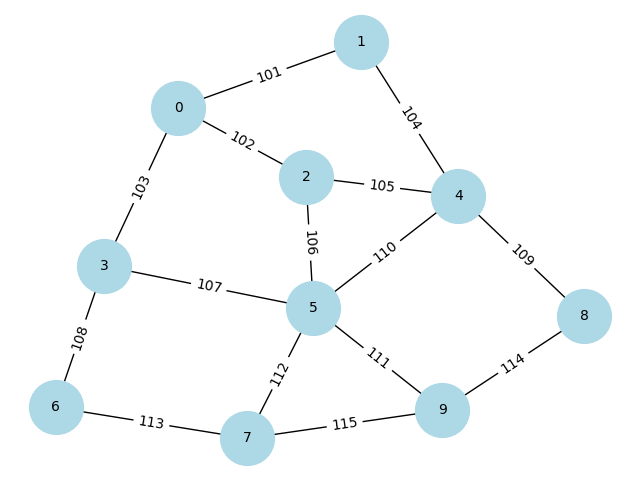
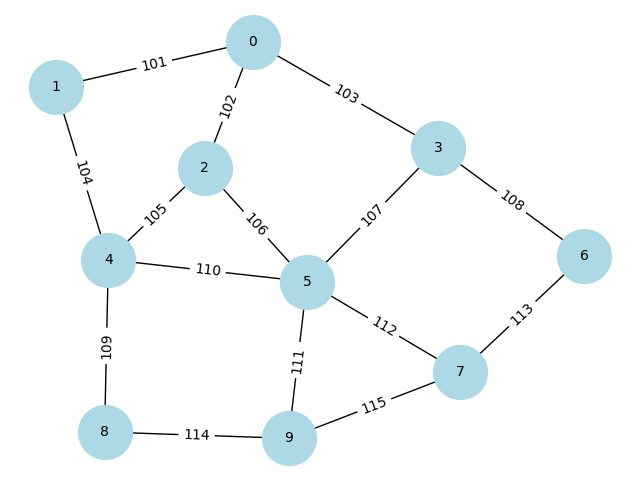
update

diff --git a/lab_1/Graph/__init__.py b/lab_1/Graph/__init__.py
@@ -1,3 +1,5 @@
+import matplotlib.pyplot as plt
+import networkx as nx
 from typing import List
 from Edge import Edge
 from Node import Node
@@ -5,13 +7,22 @@ from Queue import Queue
 from Stack import Stack
 
 class Graph:
-
-    def __init__(self, edgeLst: List[Edge]):
+    def __init__(self, edgeLst: List[Edge], draw_flag: int = 0):
         self.edgeLst = edgeLst  # Список рёбер графа
         self.closed = []  # Посещённые узлы
         self.goal = None  # Целевой узел
         self.isSolutionNotFound = 1  # Флаг, указывающий на отсутствие решения
         self.childCounter = 1  # Счётчик для поиска потомков
+        self.draw_flag = draw_flag  # Флаг для отрисовки графа
+
+        self.G = nx.Graph()
+
+        # Добавляем рёбра в граф и помечаем их
+        for edge in self.edgeLst:
+            self.G.add_edge(edge.startNode.number, edge.endNode.number, label=edge.startNode.number)
+
+        # Вычисляем позиции узлов динамически
+        self.pos = nx.spring_layout(self.G)
 
     def bfs(self, start: int, goal: int):
         self.opened = Queue()  # Очередь для хранения узлов
@@ -19,6 +30,8 @@ class Graph:
 
         self.opened.put(Node(start))
         self.goal = goal
+
+        self.plot_graph(is_bfs=True)
 
         while self.childCounter and self.isSolutionNotFound:
             print("Очередь: ", end="")
@@ -34,8 +47,11 @@ class Graph:
             if self.opened.length() != 0:  # Если есть ещё узлы
                 self.childCounter = 1
 
+            self.plot_graph(is_bfs=True)
+
         if self.isSolutionNotFound == 1:
             return None
+
         return self.__get_res_pwd(start)
 
     def __bfs_sample_search(self):
@@ -58,6 +74,8 @@ class Graph:
                 self.isSolutionNotFound = 0
                 return
 
+            self.plot_graph(is_bfs=True)
+
     def dfs(self, start: int, goal: int):
         self.opened = Stack()  # Стек для хранения узлов
         self.opened.push(Node(start))  # Начальный узел в стек
@@ -67,7 +85,7 @@ class Graph:
             print("Стек: ", end="")
             self.opened.print()
 
-            self.__dfs__sample_search()
+            self.__dfs_sample_search()
             if self.isSolutionNotFound == 0:
                 break
             if self.childCounter == 0 and self.opened.length() > 1:  # Нет потомков
@@ -75,11 +93,14 @@ class Graph:
                 self.closed.append(currentNode.number)
                 self.childCounter = 1
 
+            self.plot_graph(is_bfs=False)
+
         if self.isSolutionNotFound == 1:
             return None
+
         return self.opened
 
-    def __dfs__sample_search(self):
+    def __dfs_sample_search(self):
         self.childCounter = 0
 
         for edge in self.edgeLst:
@@ -98,6 +119,8 @@ class Graph:
                 self.isSolutionNotFound = 0
                 return
 
+            self.plot_graph(is_bfs=False)
+
     def __get_res_pwd(self, start: int):
         current = self.goal  # Начинаем с целевого узла
         result = [current]
@@ -105,3 +128,25 @@ class Graph:
             current = self.resPWD[current]  # Переход к родительскому узлу
             result.append(current)  # Добавляем узел в результат
         return result
+
+    def plot_graph(self, is_bfs):
+        if self.draw_flag == 0:
+            return  # Если флаг для отрисовки не установлен, выходим из метода
+
+        # Устанавливаем цвет узлов
+        color_map = []
+        for node in self.G.nodes:
+            if node in self.closed:
+                color_map.append('red')  # Посещённые узлы
+            elif node in [n.number for n in self.opened.elements]:  # Узлы в очереди/стеке
+                color_map.append('green')
+            else:
+                color_map.append('blue')  # Не посещённые узлы
+
+        # Рисуем граф
+        nx.draw(self.G, self.pos, node_color=color_map, with_labels=True, node_size=700, font_size=10)
+        edge_labels = nx.get_edge_attributes(self.G, 'label')
+        nx.draw_networkx_edge_labels(self.G, self.pos, edge_labels=edge_labels)
+
+        plt.title('BFS' if is_bfs else 'DFS')
+        plt.show()
